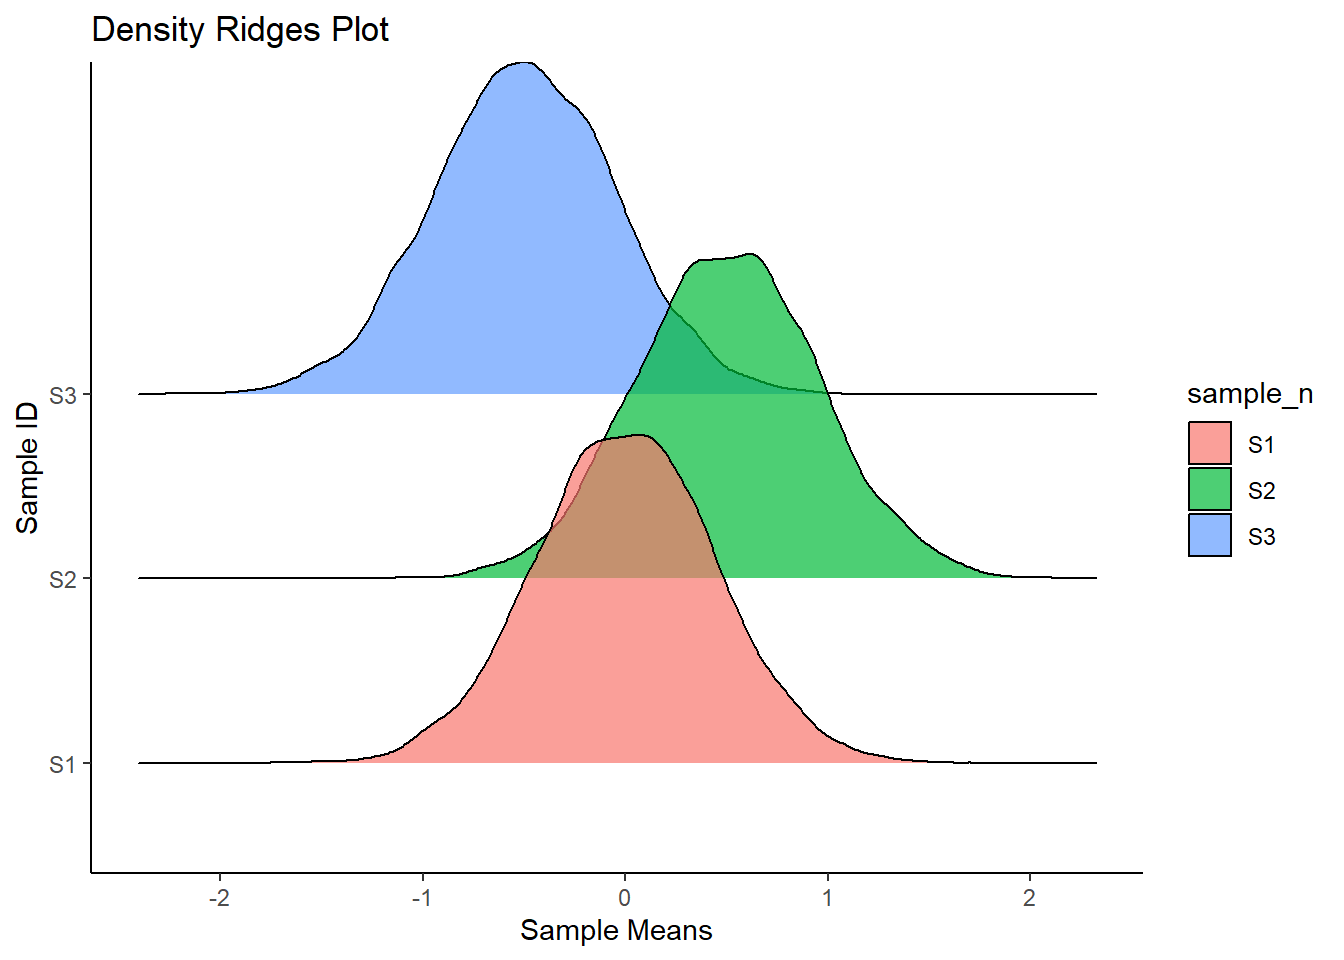
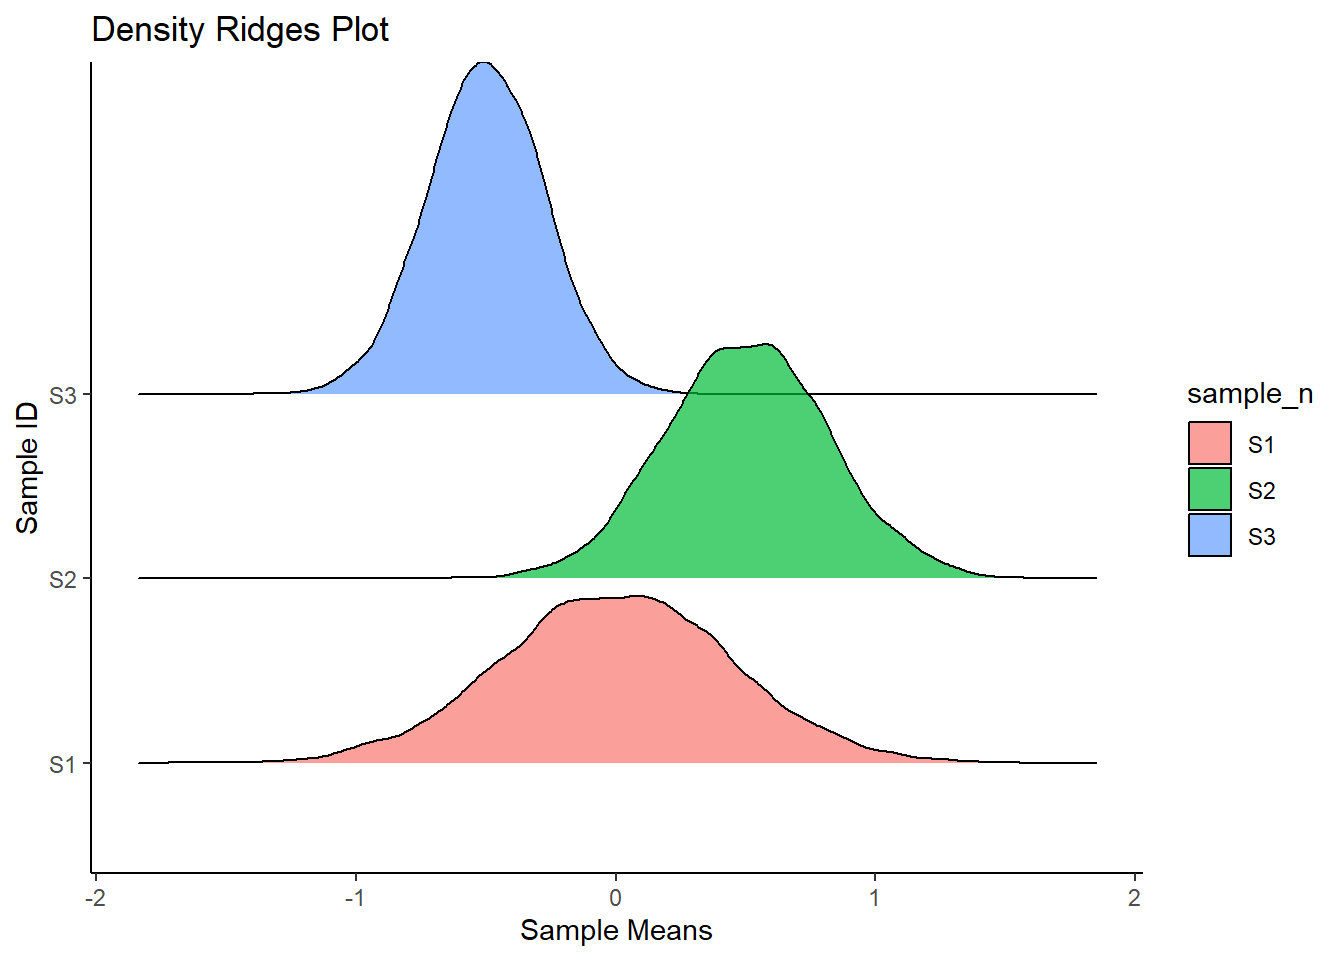
update visual page with more visuals

diff --git a/docs/visualizing-data.html b/docs/visualizing-data.html
@@ -184,6 +184,8 @@ code span.wa { color: #60a0b0; font-weight: bold; font-style: italic; } /* Warni
   <li><a href="#density-plot" id="toc-density-plot" class="nav-link" data-scroll-target="#density-plot"> <span class="header-section-number">3.1.1</span> Density Plot</a></li>
   <li><a href="#density-ridges" id="toc-density-ridges" class="nav-link" data-scroll-target="#density-ridges"> <span class="header-section-number">3.1.2</span> Density Ridges</a></li>
   <li><a href="#histogram" id="toc-histogram" class="nav-link" data-scroll-target="#histogram"> <span class="header-section-number">3.1.3</span> Histogram</a></li>
+  <li><a href="#boxplot" id="toc-boxplot" class="nav-link" data-scroll-target="#boxplot"> <span class="header-section-number">3.1.4</span> Boxplot</a></li>
+  <li><a href="#violin-chart" id="toc-violin-chart" class="nav-link" data-scroll-target="#violin-chart"> <span class="header-section-number">3.1.5</span> Violin Chart</a></li>
   </ul></li>
   </ul>
 </nav>
@@ -259,7 +261,7 @@ code span.wa { color: #60a0b0; font-weight: bold; font-style: italic; } /* Warni
 <span id="cb2-4"><a href="#cb2-4" aria-hidden="true" tabindex="-1"></a>  <span class="fu">labs</span>(<span class="at">title =</span> <span class="st">"Density Ridges Plot"</span>, <span class="at">x =</span><span class="st">"Sample Means"</span>, <span class="at">y =</span> <span class="st">"Sample ID"</span>) <span class="sc">+</span></span>
 <span id="cb2-5"><a href="#cb2-5" aria-hidden="true" tabindex="-1"></a>  <span class="fu">theme_classic</span>()</span></code><button title="Copy to Clipboard" class="code-copy-button"><i class="bi"></i></button></pre></div>
 <div class="cell-output cell-output-stderr">
-<pre><code>Picking joint bandwidth of 0.0637</code></pre>
+<pre><code>Picking joint bandwidth of 0.0467</code></pre>
 </div>
 <div class="cell-output-display">
 <p><img src="visualizing-data_files/figure-html/unnamed-chunk-3-1.png" class="img-fluid" width="672"></p>
@@ -276,6 +278,34 @@ code span.wa { color: #60a0b0; font-weight: bold; font-style: italic; } /* Warni
 <span id="cb4-4"><a href="#cb4-4" aria-hidden="true" tabindex="-1"></a>  <span class="fu">labs</span>(<span class="at">title =</span> <span class="st">"Histogram"</span>, <span class="at">y =</span> <span class="st">"Count"</span>, <span class="at">x =</span> <span class="st">"Sample Means"</span>)</span></code><button title="Copy to Clipboard" class="code-copy-button"><i class="bi"></i></button></pre></div>
 <div class="cell-output-display">
 <p><img src="visualizing-data_files/figure-html/unnamed-chunk-4-1.png" class="img-fluid" width="672"></p>
+</div>
+</div>
+</section>
+<section id="boxplot" class="level3" data-number="3.1.4">
+<h3 data-number="3.1.4" class="anchored" data-anchor-id="boxplot"><span class="header-section-number">3.1.4</span> Boxplot</h3>
+<p>Boxplots can be a useful way to show a distribution, but the distribution is hidden behind each box meaning it could be misinterpreted.</p>
+<div class="cell">
+<div class="sourceCode cell-code" id="cb5"><pre class="sourceCode r code-with-copy"><code class="sourceCode r"><span id="cb5-1"><a href="#cb5-1" aria-hidden="true" tabindex="-1"></a>samples_df <span class="sc">%&gt;%</span></span>
+<span id="cb5-2"><a href="#cb5-2" aria-hidden="true" tabindex="-1"></a>  <span class="fu">ggplot</span>(<span class="fu">aes</span>(<span class="at">x =</span> sample_n, <span class="at">y =</span> sample_means, <span class="at">fill =</span> sample_n)) <span class="sc">+</span></span>
+<span id="cb5-3"><a href="#cb5-3" aria-hidden="true" tabindex="-1"></a>  <span class="fu">geom_boxplot</span>() <span class="sc">+</span></span>
+<span id="cb5-4"><a href="#cb5-4" aria-hidden="true" tabindex="-1"></a>  <span class="fu">labs</span>(<span class="at">title =</span> <span class="st">"Boxplot"</span>) <span class="sc">+</span></span>
+<span id="cb5-5"><a href="#cb5-5" aria-hidden="true" tabindex="-1"></a>  <span class="fu">theme_classic</span>()</span></code><button title="Copy to Clipboard" class="code-copy-button"><i class="bi"></i></button></pre></div>
+<div class="cell-output-display">
+<p><img src="visualizing-data_files/figure-html/unnamed-chunk-5-1.png" class="img-fluid" width="672"></p>
+</div>
+</div>
+</section>
+<section id="violin-chart" class="level3" data-number="3.1.5">
+<h3 data-number="3.1.5" class="anchored" data-anchor-id="violin-chart"><span class="header-section-number">3.1.5</span> Violin Chart</h3>
+<p>Similar to a boxplot but shows the shape of a distribution better.</p>
+<div class="cell">
+<div class="sourceCode cell-code" id="cb6"><pre class="sourceCode r code-with-copy"><code class="sourceCode r"><span id="cb6-1"><a href="#cb6-1" aria-hidden="true" tabindex="-1"></a>samples_df <span class="sc">%&gt;%</span></span>
+<span id="cb6-2"><a href="#cb6-2" aria-hidden="true" tabindex="-1"></a>  <span class="fu">ggplot</span>(<span class="fu">aes</span>(<span class="at">x =</span> sample_n, <span class="at">y =</span> sample_means, <span class="at">fill =</span> sample_n)) <span class="sc">+</span></span>
+<span id="cb6-3"><a href="#cb6-3" aria-hidden="true" tabindex="-1"></a>  <span class="fu">geom_violin</span>() <span class="sc">+</span></span>
+<span id="cb6-4"><a href="#cb6-4" aria-hidden="true" tabindex="-1"></a>  <span class="fu">labs</span>(<span class="at">title =</span> <span class="st">"Violin Chart"</span>) <span class="sc">+</span></span>
+<span id="cb6-5"><a href="#cb6-5" aria-hidden="true" tabindex="-1"></a>  <span class="fu">theme_classic</span>()</span></code><button title="Copy to Clipboard" class="code-copy-button"><i class="bi"></i></button></pre></div>
+<div class="cell-output-display">
+<p><img src="visualizing-data_files/figure-html/unnamed-chunk-6-1.png" class="img-fluid" width="672"></p>
 </div>
 </div>
 
